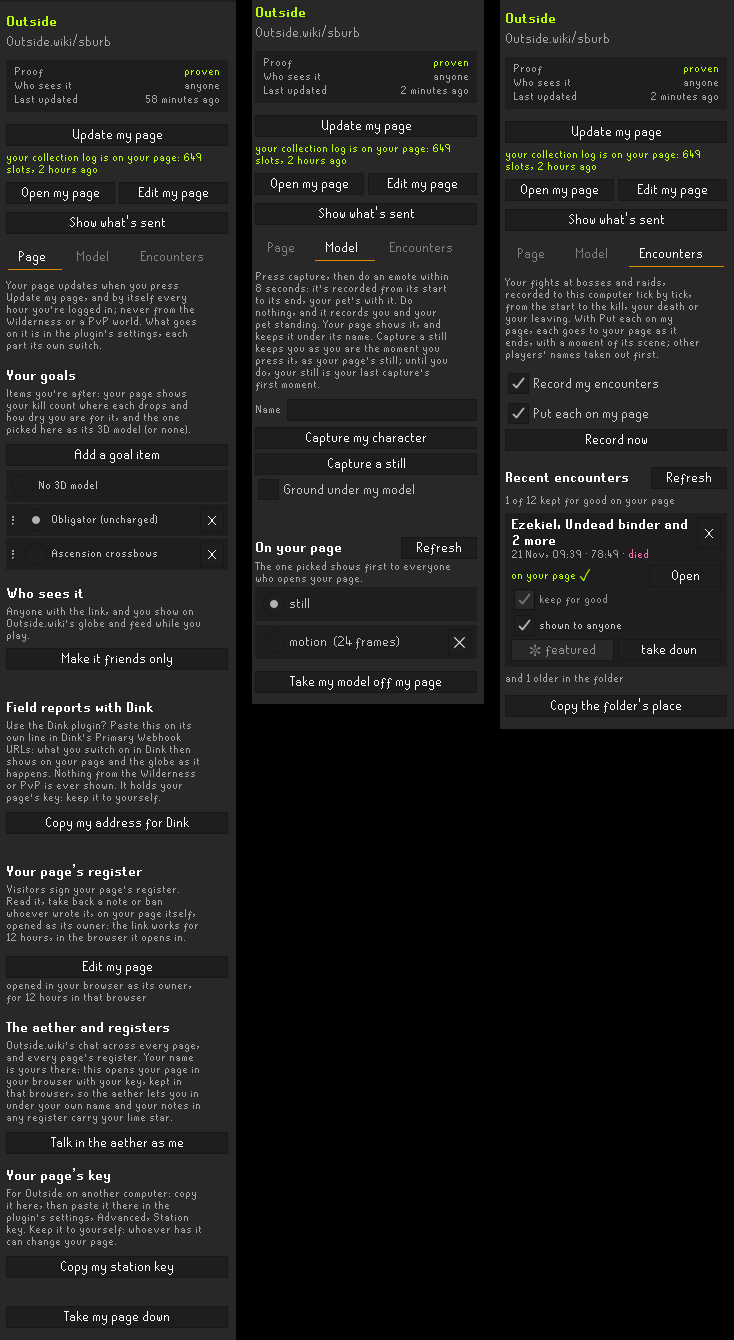
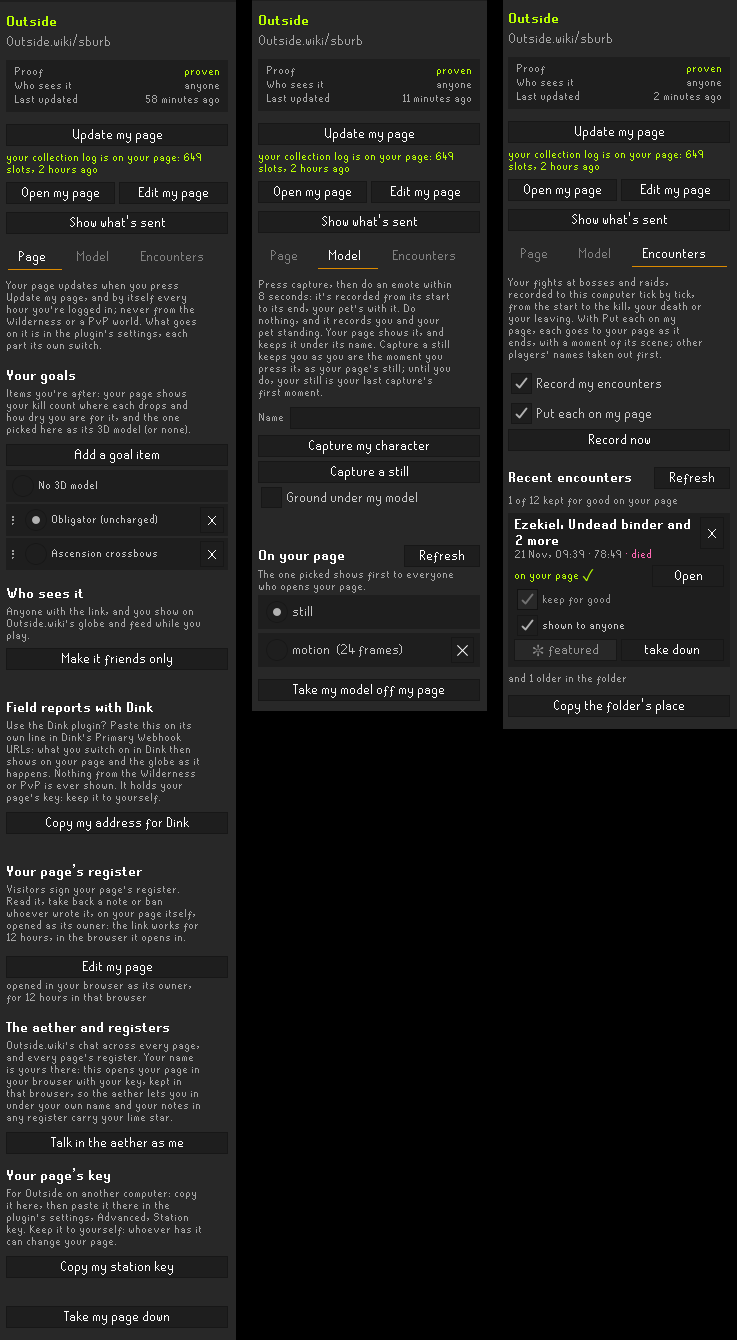
The Hub's README: the side tab with the newer Model tab
Claude-Session: https://claude.ai/code/session_015m6iunNsuJ3to6ksw3SC2o

diff --git a/plugin/README.hub.md b/plugin/README.hub.md
@@ -7,19 +7,19 @@
 
 **Your page** (outside.wiki/sburb)
 
-![A player's page on Outside.wiki: their card, their featured fight, their character in 3D with their pet, what they carry and their goal](https://raw.githubusercontent.com/jhmcubed/outside-plugin/9be1c18517f8f983ee359c7bd0e6770607f67fa3/assets/page.png)
+![A player's page on Outside.wiki: their card, their featured fight, their character in 3D with their pet, what they carry and their goal](https://raw.githubusercontent.com/jhmcubed/outside-plugin/fada5e59f25cd471f03182ea714017028edefc5f/assets/page.png)
 
 **Your boss fights, replayed** in 2D or 3D, every boss of a raid on one line, down to the reward chest
 
-![A Fractured Archive raid replayed on Outside.wiki: the team at the treasure room's chest in 3D, the subject's gear, the bosses along the timeline](https://raw.githubusercontent.com/jhmcubed/outside-plugin/9be1c18517f8f983ee359c7bd0e6770607f67fa3/assets/replay.png)
+![A Fractured Archive raid replayed on Outside.wiki: the team at the treasure room's chest in 3D, the subject's gear, the bosses along the timeline](https://raw.githubusercontent.com/jhmcubed/outside-plugin/fada5e59f25cd471f03182ea714017028edefc5f/assets/replay.png)
 
 **Every kill, every best**
 
-![Entities slain: each boss's kill count, best time and rank](https://raw.githubusercontent.com/jhmcubed/outside-plugin/9be1c18517f8f983ee359c7bd0e6770607f67fa3/assets/entities-slain.png)
+![Entities slain: each boss's kill count, best time and rank](https://raw.githubusercontent.com/jhmcubed/outside-plugin/fada5e59f25cd471f03182ea714017028edefc5f/assets/entities-slain.png)
 
 **The side tab in RuneLite**
 
-![The Outside side tab's three tabs: Page (goals, who sees it, Dink, the register, the aether, the key), Model (capture your character, a still or a motion) and Encounters (recorded fights, kept for good, featured)](https://raw.githubusercontent.com/jhmcubed/outside-plugin/9be1c18517f8f983ee359c7bd0e6770607f67fa3/assets/side-tab.png)
+![The Outside side tab's three tabs: Page (goals, who sees it, Dink, the register, the aether, the key), Model (capture your character, a still or a motion) and Encounters (recorded fights, kept for good, featured)](https://raw.githubusercontent.com/jhmcubed/outside-plugin/fada5e59f25cd471f03182ea714017028edefc5f/assets/side-tab.png)
 
 ## What it does
 

diff --git a/docs/hub-submission.md b/docs/hub-submission.md
@@ -586,7 +586,7 @@ update 8". Built from the plan under **Trips** in "Update 7 (planned, 11/22/2026
   shows you."), and four pictures, each with a bold line: the page (sburb's own, his character at the angle he chose),
   his Fractured Archive raid replayed in 3D, the team at its reward chest (tick 7765, his pick), entities slain, and
   his own side tab's three tabs (his screenshots; none from the local world, his call). The pictures are in the
-  plugin's `assets/` and linked by the commit that holds them (9be1c18), so they don't move. No video yet.
+  plugin's `assets/` and linked by the commit that holds them (fada5e5; the Model tab Jace's newer shot), so they don't move. No video yet.
 - **Not in it** (from the plan): what dropped on the tile (the list carries no loot yet), an open area's kills in a row.
 
 Checked: gradle test (whole 207, the cut 151: `TripsTest`), hub_check both, hub_cut --check, start_check on the cut
